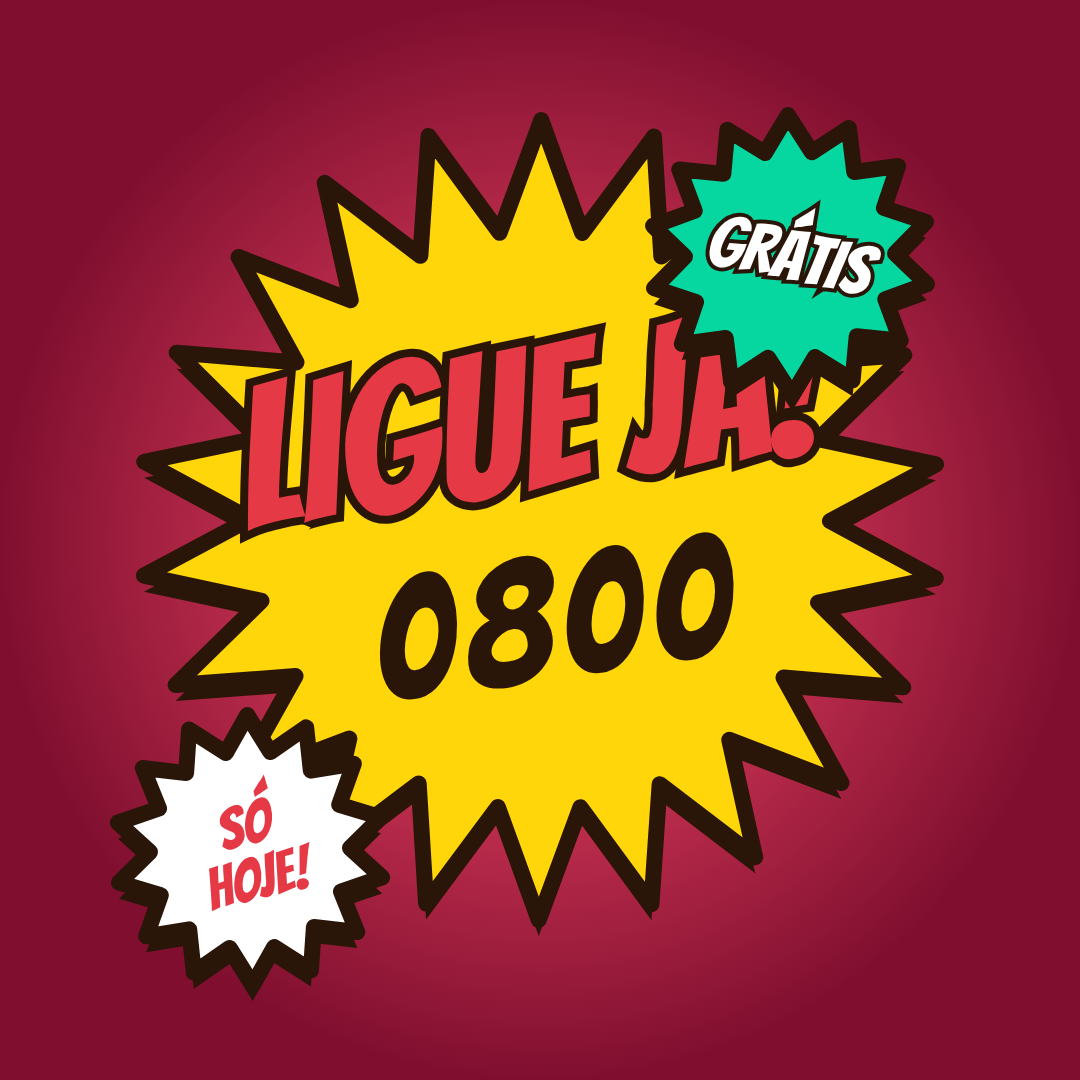
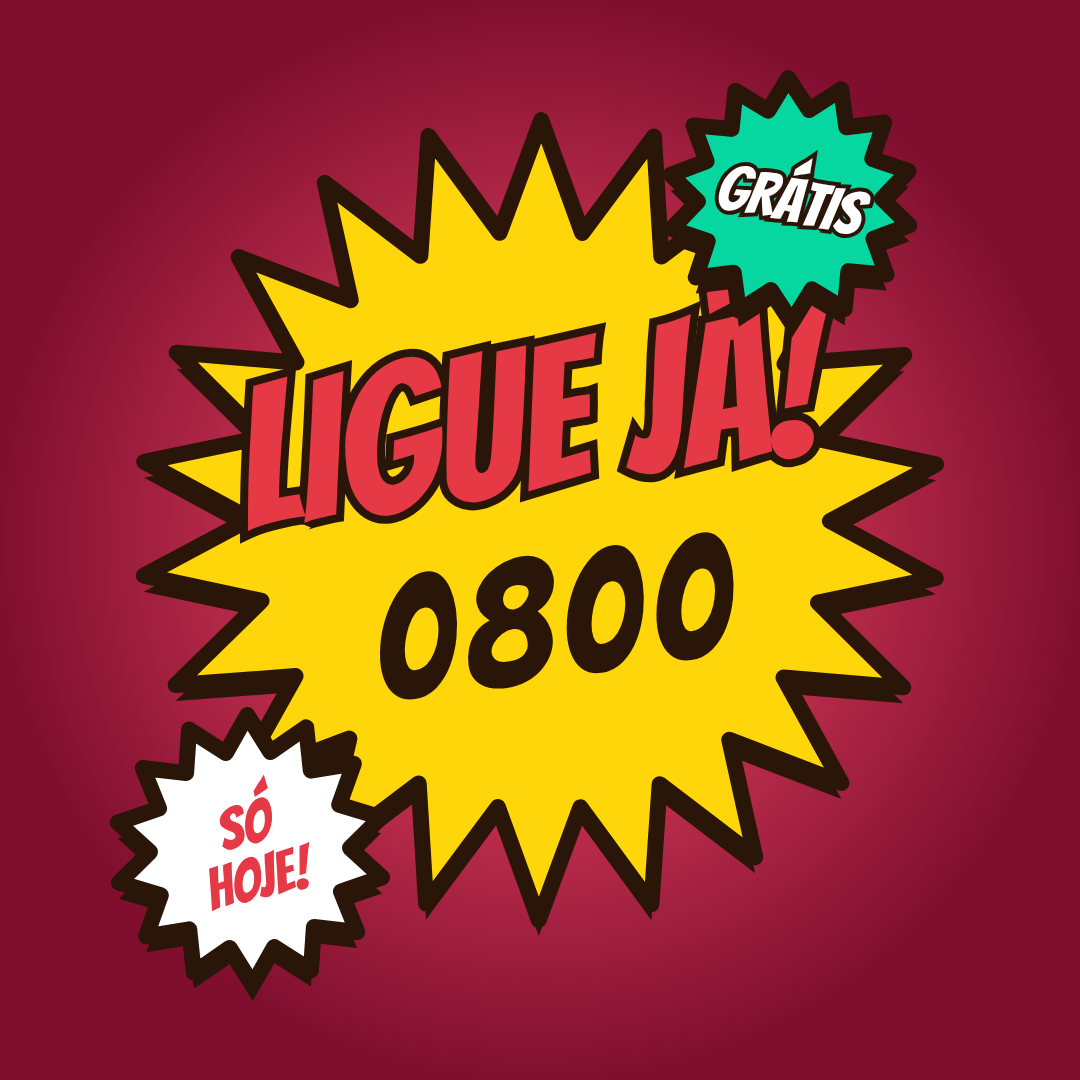
Ajusta selo GRÁTIS da ideia 14
Claude-Session: https://claude.ai/code/session_01P5X4gmKajvozoR9JGbtTdR

Changed region(s): [[0.5806, 0.0611, 0.8861, 0.3667]]

diff --git a/perfil/ideias/ideias4.html b/perfil/ideias/ideias4.html
@@ -25,8 +25,8 @@ body{margin:0;background:#000}.card{width:1080px;height:1080px}svg{display:block
 <g class="burst" data-cx="540" data-cy="520" data-r1="290" data-r2="400" data-n="22" data-fill="#ffd60a" data-rot="-8"></g>
 <text x="540" y="490" text-anchor="middle" font-family="Bangers" font-size="200" fill="#e63946" stroke="#2a1608" stroke-width="16" paint-order="stroke" transform="rotate(-8 540 520)">LIGUE JÁ!</text>
 <text x="540" y="680" text-anchor="middle" font-family="Bangers" font-size="170" fill="#2a1608" letter-spacing="10" transform="rotate(-8 540 520)">0800</text>
-<g class="burst" data-cx="790" data-cy="255" data-r1="105" data-r2="140" data-n="14" data-fill="#06d6a0" data-rot="12"></g>
-<text x="790" y="280" text-anchor="middle" font-family="Bangers" font-size="70" fill="#fff" stroke="#2a1608" stroke-width="8" paint-order="stroke" transform="rotate(12 790 255)">GRÁTIS</text>
+<g class="burst" data-cx="790" data-cy="200" data-r1="92" data-r2="122" data-n="14" data-fill="#06d6a0" data-rot="12"></g>
+<text x="790" y="222" text-anchor="middle" font-family="Bangers" font-size="62" fill="#fff" stroke="#2a1608" stroke-width="8" paint-order="stroke" transform="rotate(12 790 200)">GRÁTIS</text>
 <g class="burst" data-cx="250" data-cy="850" data-r1="100" data-r2="135" data-n="14" data-fill="#fff" data-rot="-14"></g>
 <text x="250" y="845" text-anchor="middle" font-family="Bangers" font-size="58" fill="#e63946" transform="rotate(-14 250 850)">SÓ</text>
 <text x="250" y="900" text-anchor="middle" font-family="Bangers" font-size="58" fill="#e63946" transform="rotate(-14 250 850)">HOJE!</text>
